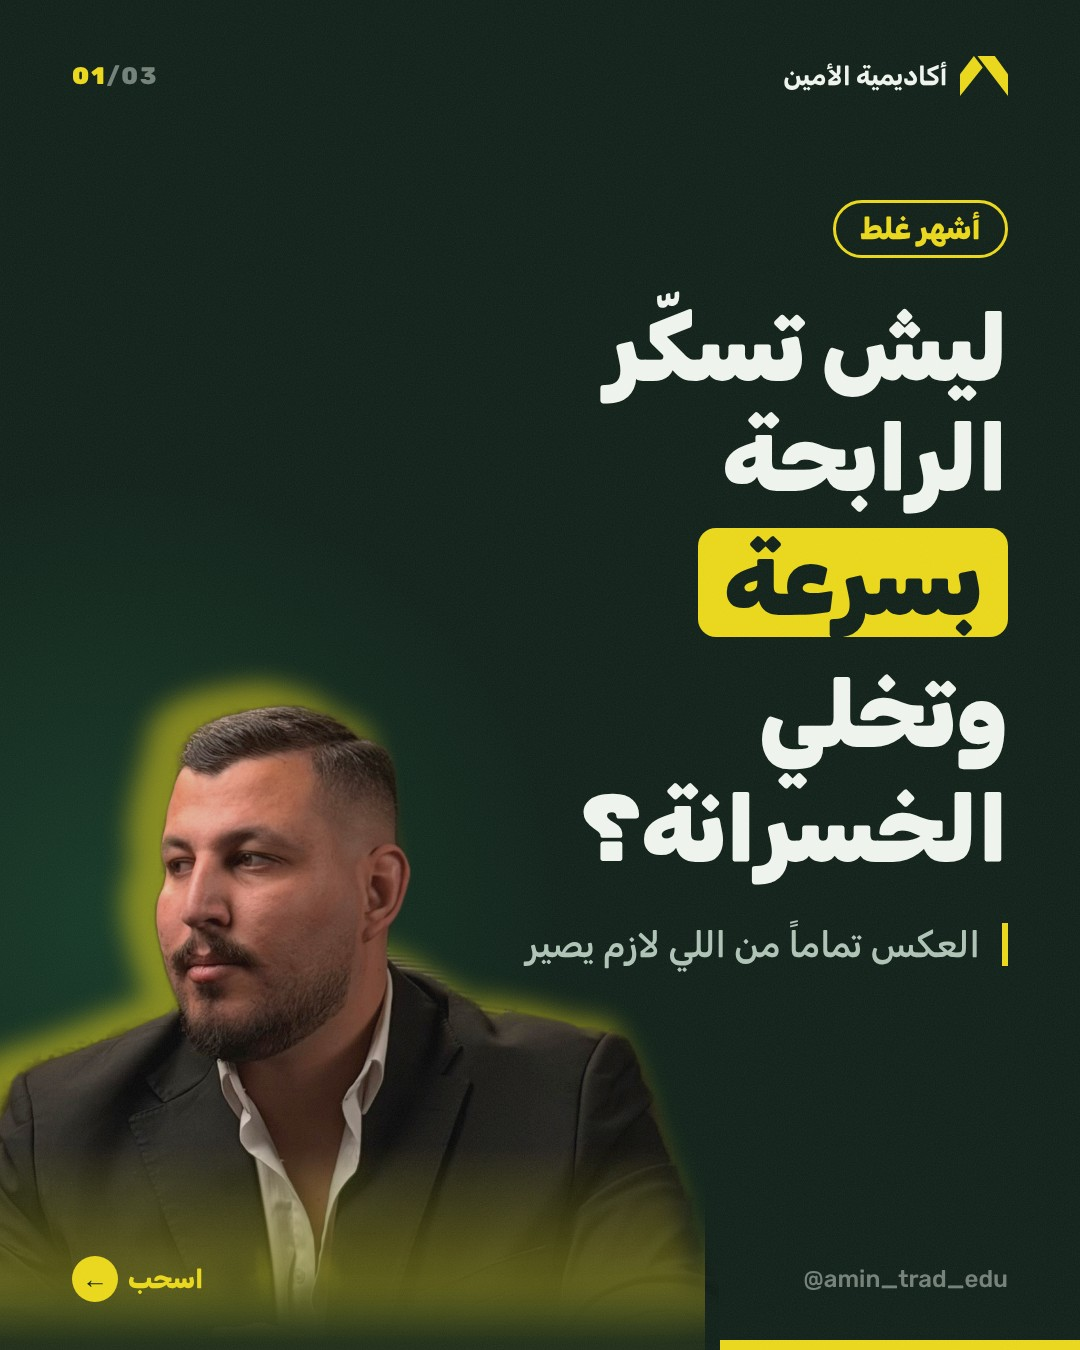
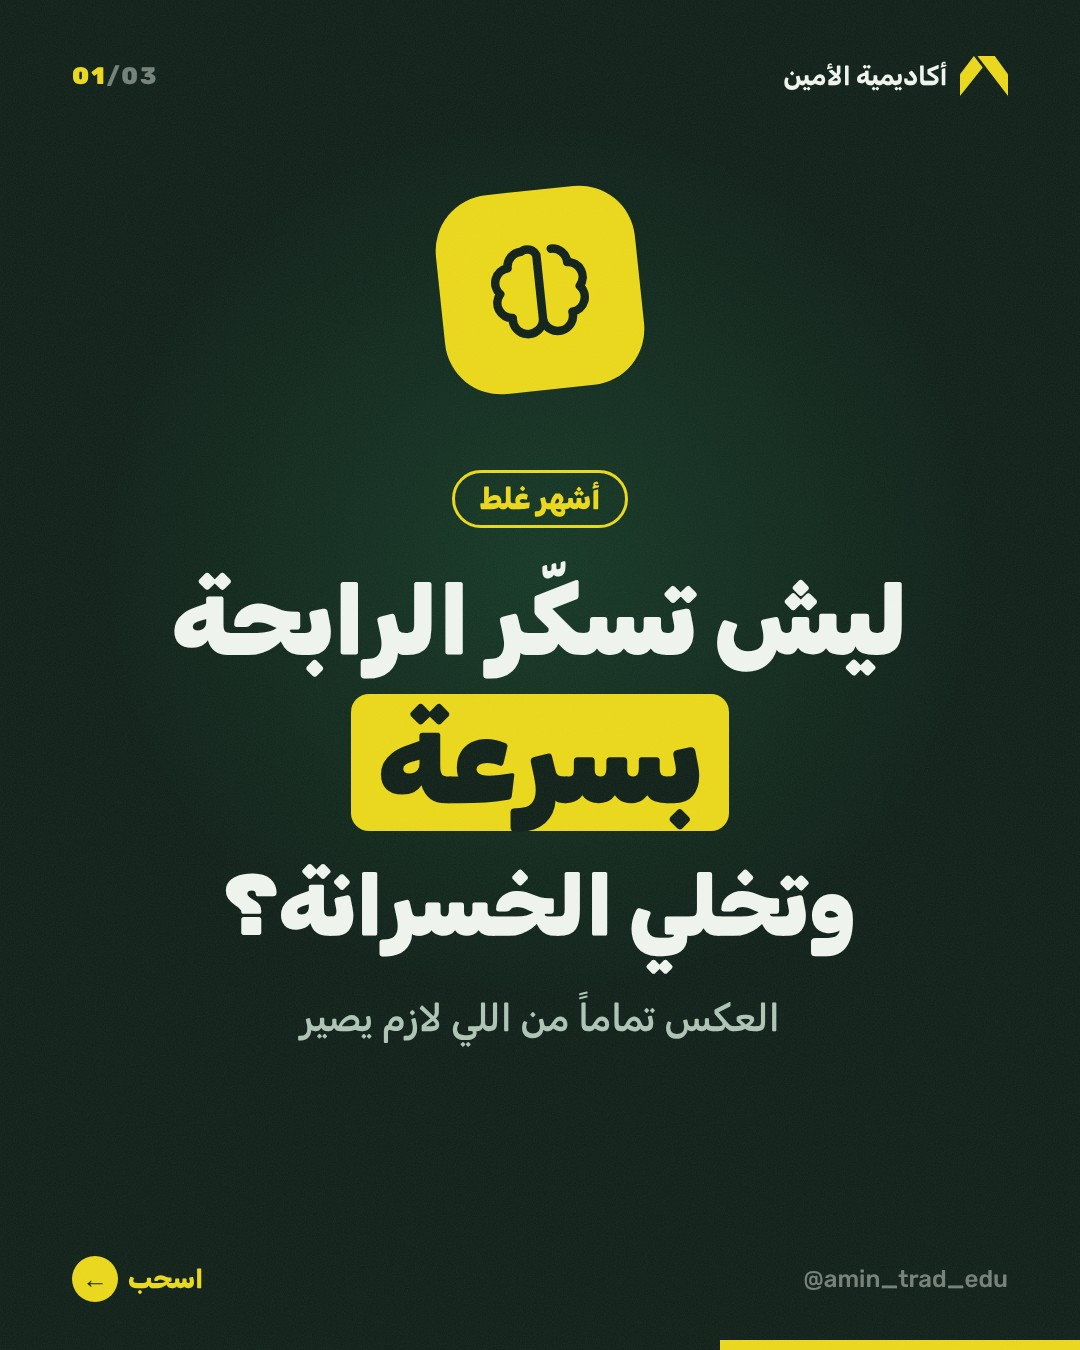
Remove photo covers from b250 posts
Claude-Session: https://claude.ai/code/session_01XnadP7Md9X1sxfrvtaMyLu

diff --git a/b250/src/c250.html b/b250/src/c250.html
@@ -57,7 +57,7 @@ red:{bg:'#170C0C',fg:'#F7ECEC',sub:'#d6b6b6',mut:'rgba(247,236,236,.45)',acc:'#E
 
 const P=B250.find(p=>p.n==+location.hash.slice(1));const TK=Object.keys(TH);const T=TH[P.th||TK[(P.n-1)%TK.length]];
 const svg=k=>`<svg viewBox="0 0 24 24">${I[k]||I.check}</svg>`;
-const S=[];const cov=['type','badge','type','badge','photo'][(P.n-1)%5];
+const S=[];const cov=['type','badge','type','badge','badge'][(P.n-1)%5];
 const tb=(c)=>`<span class="chip">${P.kick}</span>
  <div style="font-weight:900;font-size:${P.t.join('').length>16?96:116}px;line-height:1.2;margin-top:36px">${P.t.join('<br>')}</div>
  <div style="font-weight:900;font-size:${P.hl.length>12?92:116}px;line-height:1.35;margin-top:6px"><span class="hl">${P.hl}</span></div>
